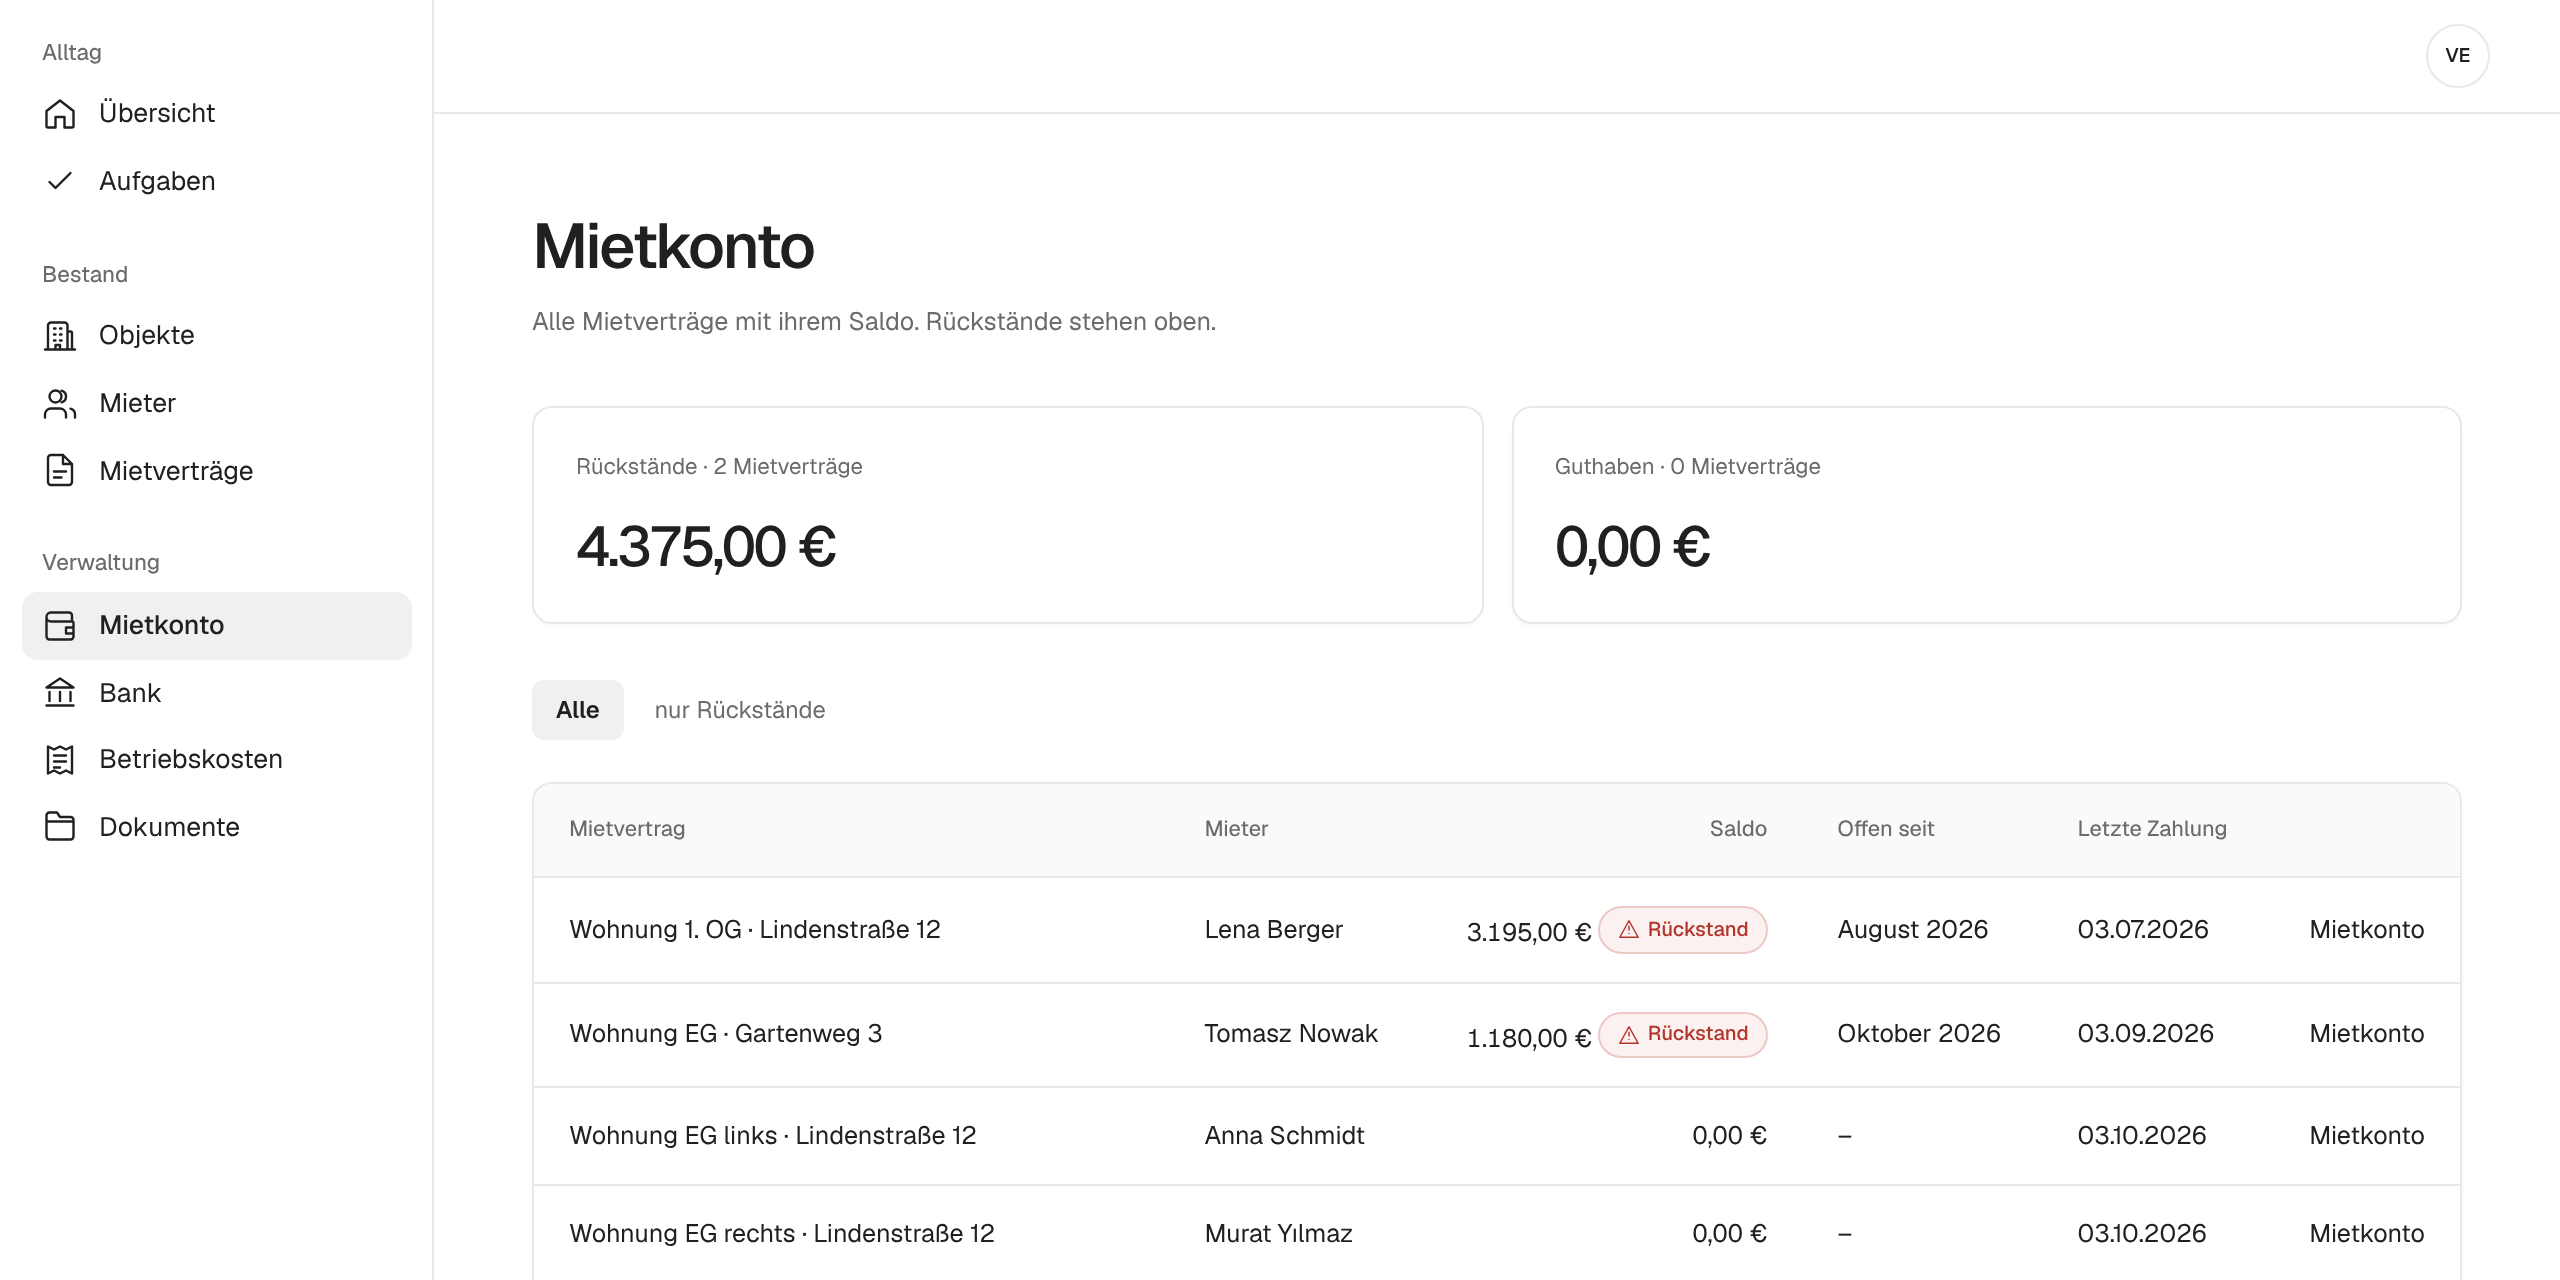
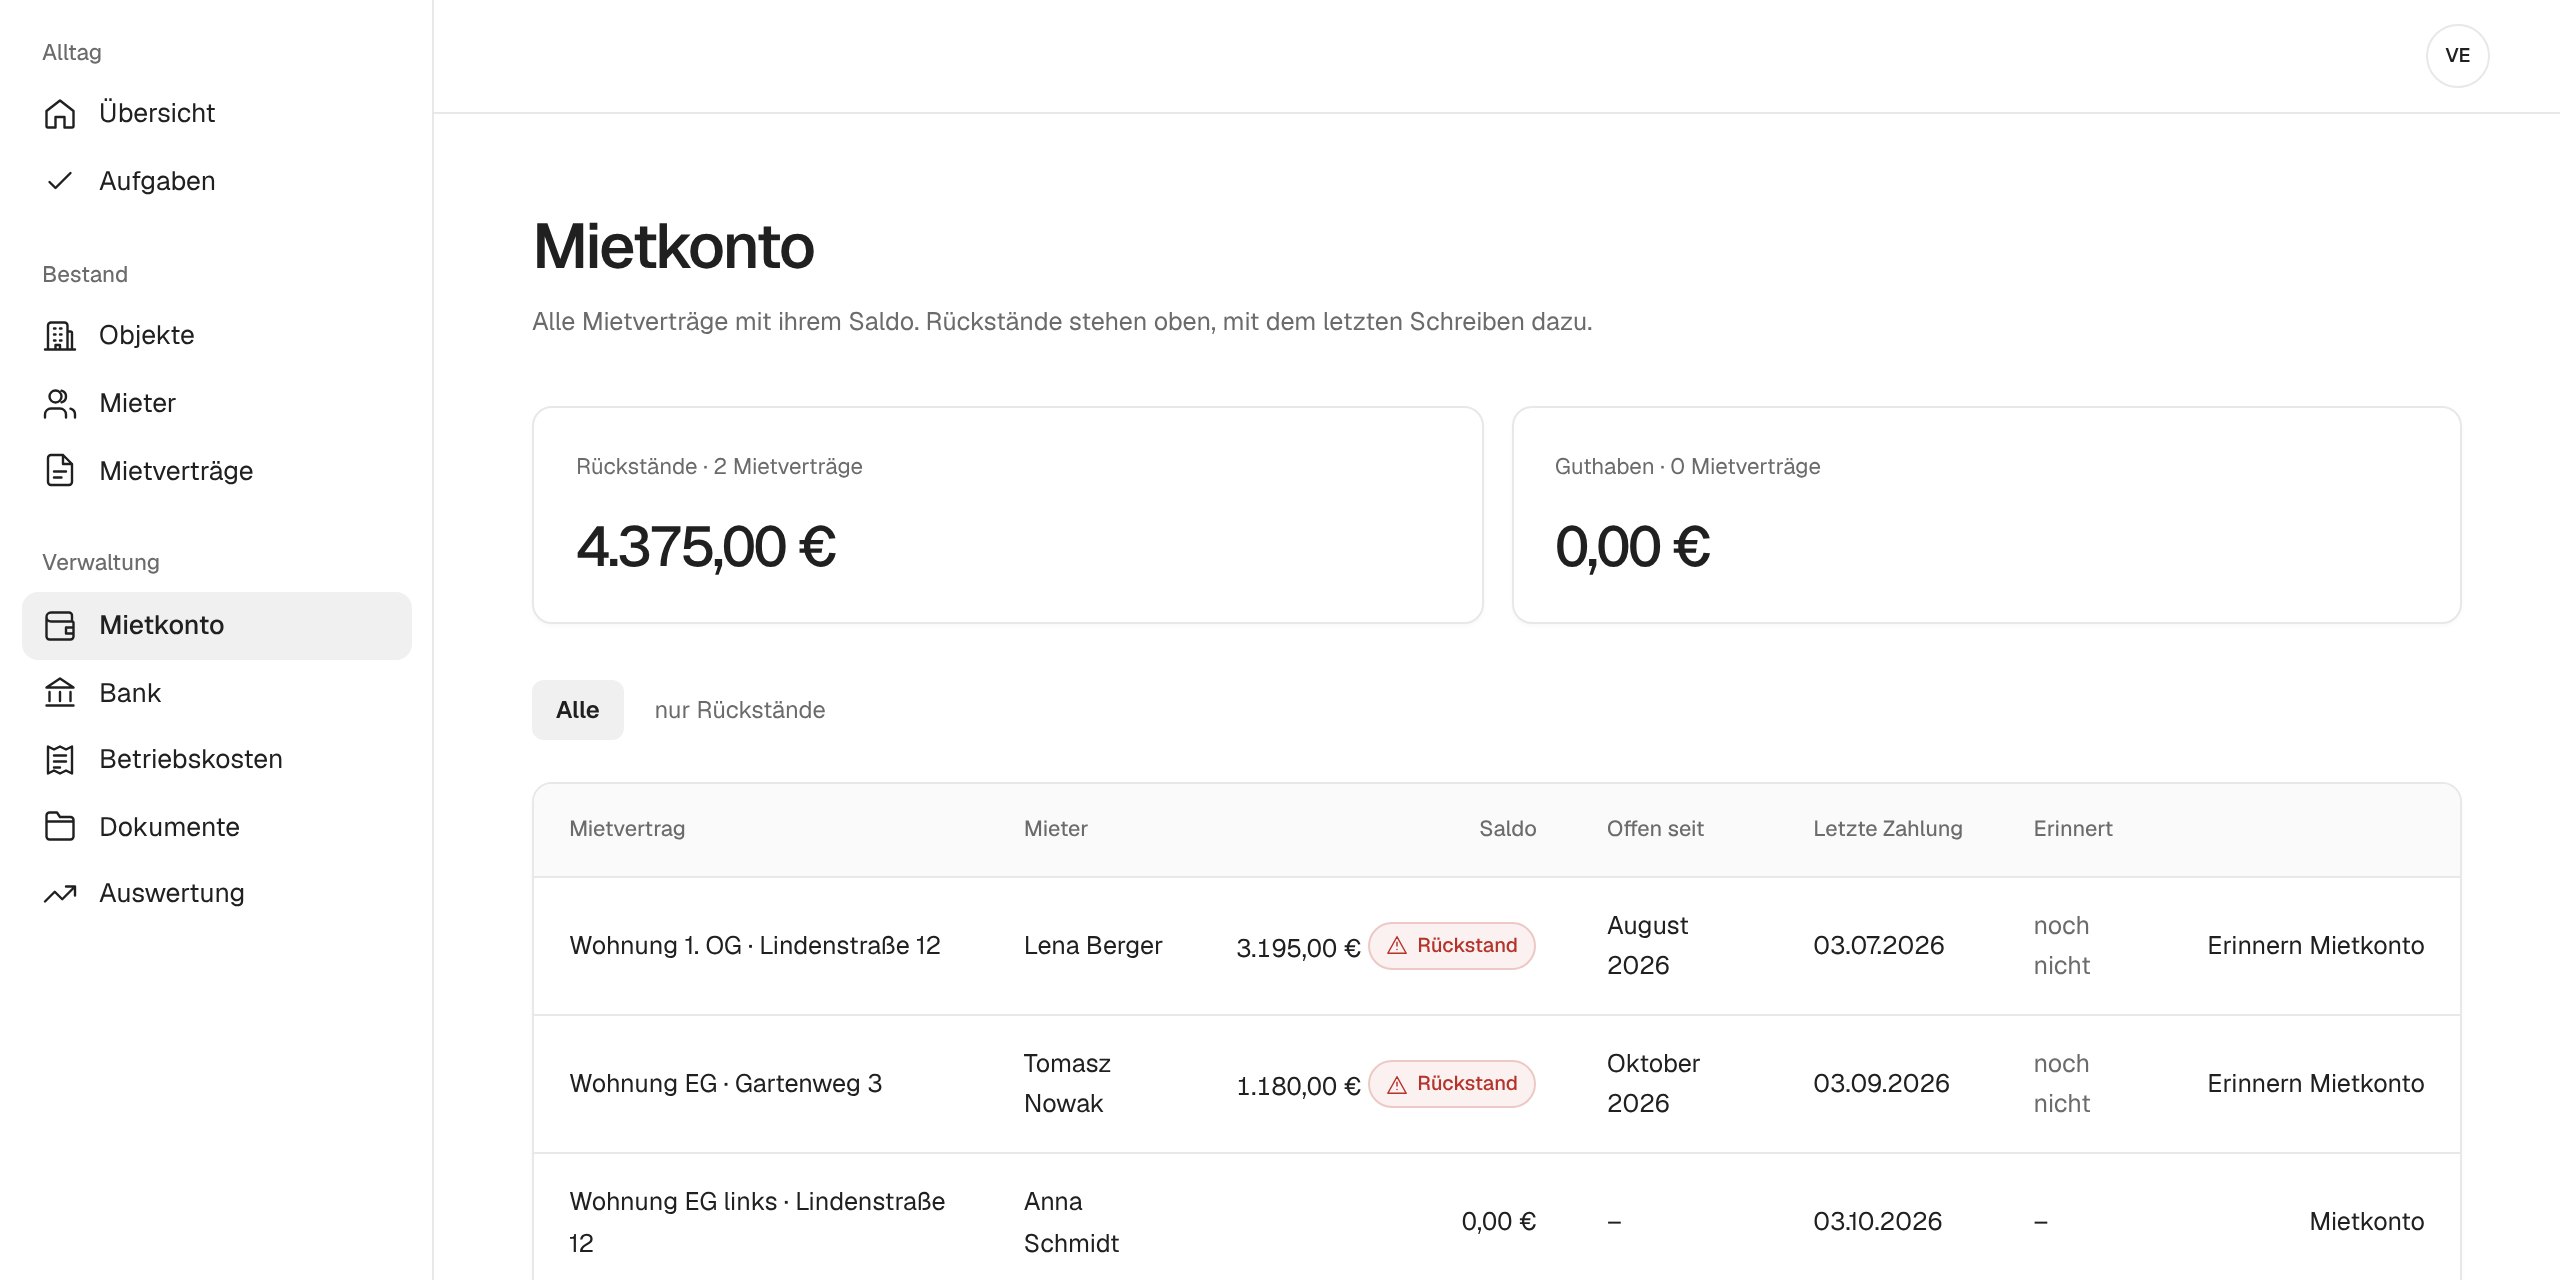
Show the README screenshots one below the other at one size, shorten the rest
All three screenshots are now 1280 × 640 (the Betriebskosten one is a
clip below the sticky header instead of an element shot). The README
shows them full width, Ausprobieren and Mitmachen are tighter, and the
license section is gone since GitHub shows the license itself.

Claude-Session: https://claude.ai/code/session_016SE8XVFgvD3h8Xu1qQ4xpz

diff --git a/app/scripts/screenshots.js b/app/scripts/screenshots.js
@@ -63,12 +63,13 @@ try {
 	await page.getByRole('button', { name: 'Demodaten anlegen' }).click();
 	await page.getByRole('button', { name: 'Demodaten anlegen' }).waitFor({ state: 'detached' });
 
-	/** @param {string} name @param {string} url @param {number} [height] */
-	async function shoot(name, url, height = 800) {
-		await page.goto(url);
+	// All screenshots have the same size, so the README can show them one below the other.
+	/** @param {string} name @param {string} [url] */
+	async function shoot(name, url) {
+		if (url) await page.goto(url);
 		await page.screenshot({
 			path: path.join(output, `${name}.png`),
-			clip: { x: 0, y: 0, width: 1280, height }
+			clip: { x: 0, y: 0, width: 1280, height: 640 }
 		});
 		console.log(`assets/screenshots/${name}.png`);
 	}
@@ -91,18 +92,20 @@ try {
 		await card.getByRole('button', { name: 'Zuordnen', exact: true }).click();
 		await card.waitFor({ state: 'detached' });
 	}
-	await shoot('uebersicht', '/', 560);
-	await shoot('mietkonto', '/mietkonto', 640);
+	await shoot('uebersicht', '/');
+	await shoot('mietkonto', '/mietkonto');
 
 	await page.goto('/betriebskosten');
 	await page.getByRole('button', { name: 'Entwurf erstellen' }).click();
 	await page.waitForURL(/\/betriebskosten\/abrechnungen\//);
-	// One tenant's share, with the allocation key worked out per cost category.
-	await page
-		.locator('section.lease')
-		.filter({ hasText: 'Anna Schmidt' })
-		.screenshot({ path: path.join(output, 'abrechnung-mieter.png') });
-	console.log('assets/screenshots/abrechnung-mieter.png');
+	// One tenant's share, with the allocation key worked out per cost category, at the top below
+	// the sticky header.
+	const share = page.locator('section.lease').filter({ hasText: 'Anna Schmidt' });
+	await share.evaluate((section) => {
+		const header = document.querySelector('.site-header')?.getBoundingClientRect().height ?? 0;
+		window.scrollTo(0, section.getBoundingClientRect().top + window.scrollY - header - 24);
+	});
+	await shoot('abrechnung-mieter');
 } finally {
 	await browser.close();
 	server.kill();

diff --git a/README.md b/README.md
@@ -29,40 +29,28 @@ Gebaut für Vermieter mit drei bis zehn Wohnungen: zu klein für die großen Ver
 
 ## So sieht es aus
 
-<table>
-  <tr>
-    <td width="50%" valign="top">
-      <b>Betriebskostenabrechnung</b><br>
-      Belege erfassen, Umlageschlüssel wählen, fertig. Jeder Mieter sieht, wie sich sein Anteil berechnet, und bekommt die Abrechnung als PDF.
-    </td>
-    <td width="50%" valign="top">
-      <b>Mietkonto</b><br>
-      Soll und Ist für jeden Mietvertrag. Rückstände stehen oben, Kontoauszüge ordnet mietkartei per Vorschlag den Verträgen zu.
-    </td>
-  </tr>
-  <tr>
-    <td><img src="assets/screenshots/abrechnung-mieter.png" alt="Anteil eines Mieters in der Betriebskostenabrechnung mit Umlageschlüssel je Kostenart"></td>
-    <td><img src="assets/screenshots/mietkonto.png" alt="Mietkonto mit Saldo, Rückständen und letzter Zahlung je Mietvertrag"></td>
-  </tr>
-</table>
+**Betriebskostenabrechnung:** Belege erfassen, Umlageschlüssel wählen, fertig. Jeder Mieter sieht, wie sich sein Anteil berechnet, und bekommt die Abrechnung als PDF.
+
+<img src="assets/screenshots/abrechnung-mieter.png" alt="Anteil eines Mieters in der Betriebskostenabrechnung mit Umlageschlüssel je Kostenart" width="900">
+
+**Mietkonto:** Soll und Ist für jeden Mietvertrag. Rückstände stehen oben, Kontoauszüge ordnet mietkartei per Vorschlag den Verträgen zu.
+
+<img src="assets/screenshots/mietkonto.png" alt="Mietkonto mit Saldo, Rückständen und letzter Zahlung je Mietvertrag" width="900">
 
 **Außerdem dabei:** Objekte und Einheiten · Mieter und Mietverträge mit Kaution · Index- und Staffelmiete · Bankimport mit Zuordnungsregeln · Zähler und Abrechnungskreise · Dokumente · Aufgaben und Fristen · Mitverwalter · Datenübernahme per CSV · vollständiger Export · Änderungsprotokoll
 
 ## Ausprobieren
 
-**[demo.mietkartei.de](https://demo.mietkartei.de)**: ein Klick, und du hast deinen eigenen Beispielbestand mit zwei Häusern, Mietzahlungen, Bankumsätzen und einer fertigen Betriebskostenabrechnung. Ohne Anmeldung, nach 24 Stunden wird alles gelöscht.
-
-Du willst mietkartei auf deinem eigenen Rechner oder Server betreiben? Das beschreibt die [Anleitung zum Selbsthosten](https://docs.mietkartei.de/selbst-hosten/).
+- **[Demo](https://demo.mietkartei.de):** eigener Beispielbestand mit fertiger Betriebskostenabrechnung, ohne Anmeldung, nach 24 Stunden gelöscht.
+- **[Selbst hosten](https://docs.mietkartei.de/selbst-hosten/):** als Docker-Container auf dem eigenen Rechner oder Server.
 
 ## Mitmachen
 
-mietkartei wird offen entwickelt, und jede Hilfe zählt: Code, Fehlerberichte, Fachwissen aus der Vermietung, Texte, Gestaltung und Barrierefreiheit. Gerade wer selbst vermietet, weiß am besten, was fehlt.
+Du vermietest selbst? Dann weißt du am besten, was fehlt. Jede Hilfe zählt: Code, Fehlerberichte, Fachwissen, Texte, Gestaltung, Barrierefreiheit.
 
-- [Gute Einstiegsaufgaben](https://github.com/OliverHennhoefer/mietkartei.de/issues?q=is%3Aissue+is%3Aopen+label%3A%22guter+einstieg%22) und [wo Hilfe gesucht wird](https://github.com/OliverHennhoefer/mietkartei.de/issues?q=is%3Aissue+is%3Aopen+label%3A%22hilfe+gesucht%22)
-- [Fehler melden](https://github.com/OliverHennhoefer/mietkartei.de/issues/new?template=01-fehler.yml) · [Funktion vorschlagen](https://github.com/OliverHennhoefer/mietkartei.de/issues/new?template=02-funktionswunsch.yml) · [Frage stellen](SUPPORT.md) · [Sicherheitslücke melden](SECURITY.md)
-- Den Einstieg erklärt [CONTRIBUTING.md](CONTRIBUTING.md), für die Zusammenarbeit gilt unser [Verhaltenskodex](CODE_OF_CONDUCT.md).
+**[Einstiegsaufgaben](https://github.com/OliverHennhoefer/mietkartei.de/issues?q=is%3Aissue+is%3Aopen+label%3A%22guter+einstieg%22)** · [Hilfe gesucht](https://github.com/OliverHennhoefer/mietkartei.de/issues?q=is%3Aissue+is%3Aopen+label%3A%22hilfe+gesucht%22) · [Fehler melden](https://github.com/OliverHennhoefer/mietkartei.de/issues/new?template=01-fehler.yml) · [Funktion vorschlagen](https://github.com/OliverHennhoefer/mietkartei.de/issues/new?template=02-funktionswunsch.yml) · [Frage stellen](SUPPORT.md) · [Sicherheitslücke melden](SECURITY.md)
 
-Issues und Dokumentation schreiben wir auf Deutsch, Code, Commits und Pull Requests auf Englisch. Wenn dir mietkartei gefällt, hilft schon ein ⭐, damit andere Vermieter das Projekt finden.
+Los geht's mit [CONTRIBUTING.md](CONTRIBUTING.md), es gilt der [Verhaltenskodex](CODE_OF_CONDUCT.md). Issues und Doku auf Deutsch, Code, Commits und Pull Requests auf Englisch. Gefällt dir mietkartei? Ein ⭐ hilft anderen Vermietern, es zu finden.
 
 <details>
 <summary><b>Aufbau des Repositorys</b></summary>
@@ -76,7 +64,3 @@ Issues und Dokumentation schreiben wir auf Deutsch, Code, Commits und Pull Reque
 | [`.github/`](.github/) | Workflows, Vorlagen sowie Anleitungen zu [Deployment](.github/DEPLOYMENT.md), [Betrieb auf einem Server](.github/SELF_HOSTING.md) und [Pflege](.github/MAINTENANCE.md) |
 
 </details>
-
-## Lizenz
-
-[GNU Affero General Public License, Version 3](LICENSE). Beiträge stehen unter derselben Lizenz, eine Contributor License Agreement gibt es nicht. Die gehostete Variante unter app.mietkartei.de läuft mit genau dem Code aus diesem Repository.
